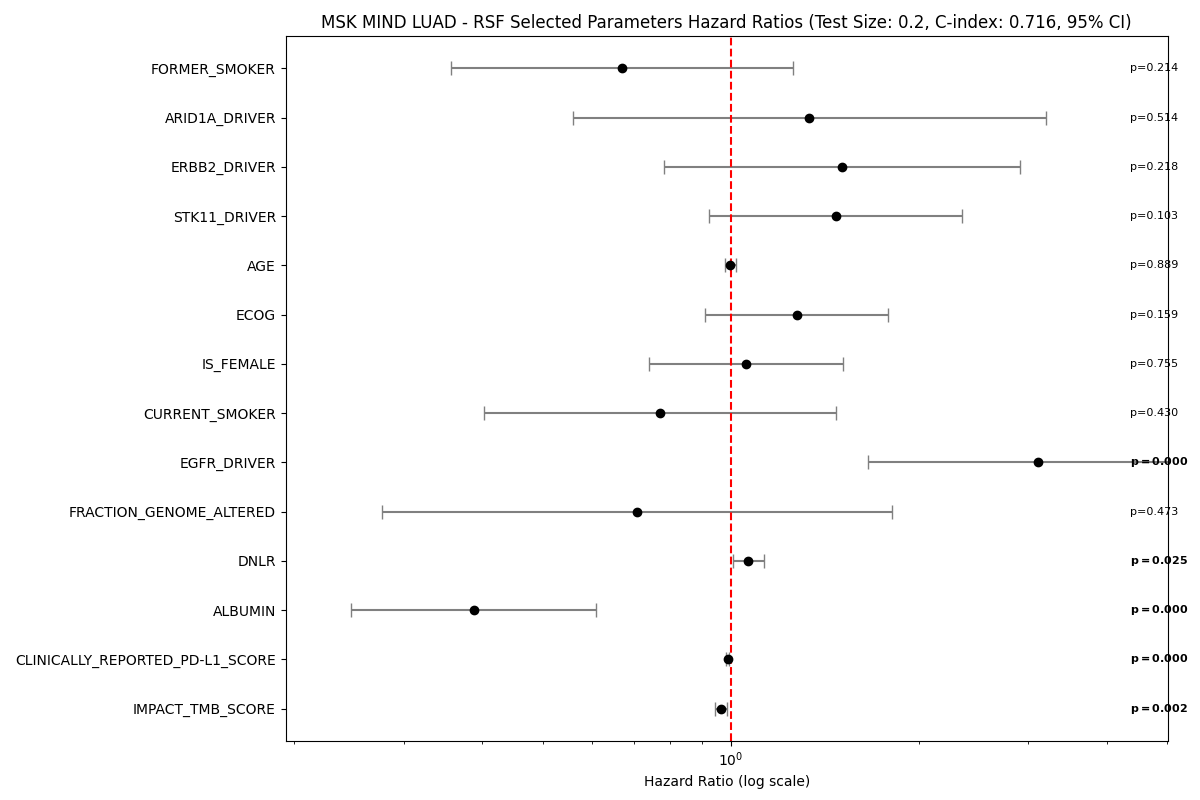
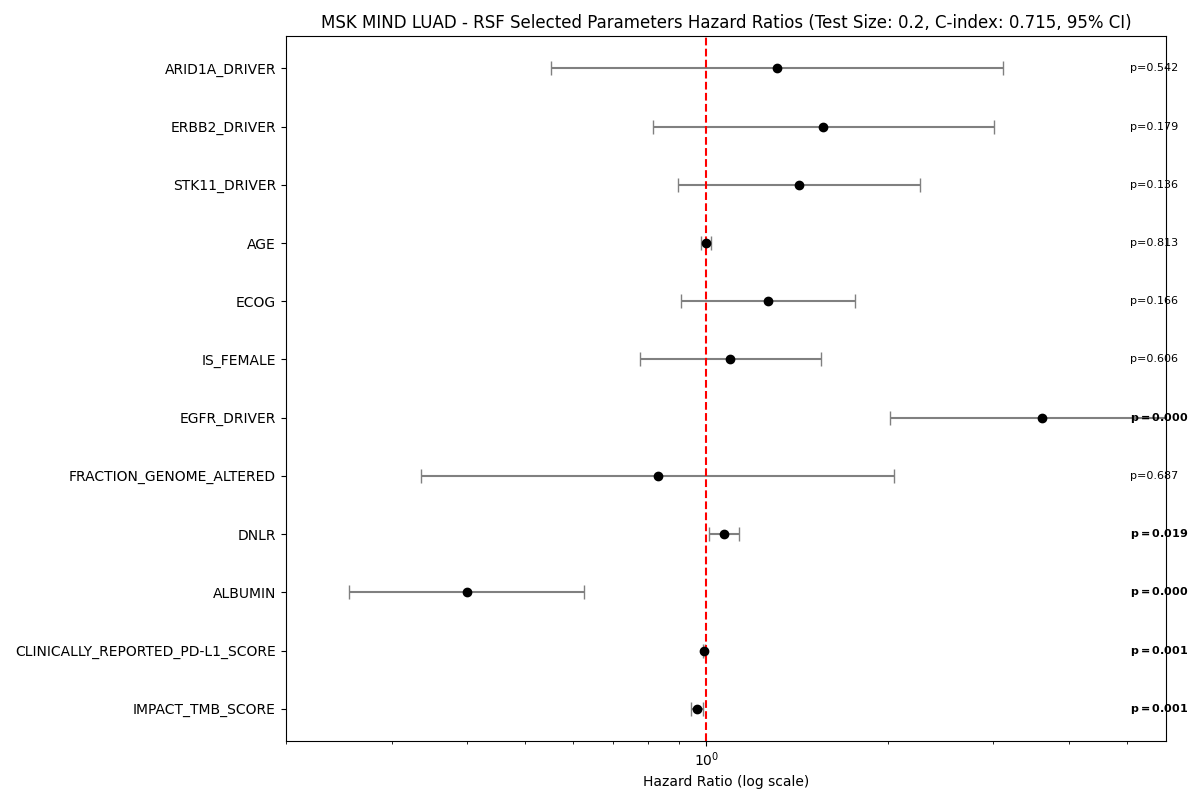
cph with top 7 from rsf

diff --git a/coxph-0.2split.py b/coxph-0.2split.py
@@ -102,7 +102,7 @@ def run_model(df, name):
 # Without treatment data
 surv = pd.read_csv('survival.csv')
 
-parameters = ["IMPACT_TMB_SCORE", "CLINICALLY_REPORTED_PD-L1_SCORE", "ALBUMIN", "DNLR", "FRACTION_GENOME_ALTERED", "EGFR_DRIVER", "CURRENT_SMOKER", "IS_FEMALE", "ECOG","AGE","STK11_DRIVER", "ERBB2_DRIVER", "ARID1A_DRIVER", "FORMER_SMOKER"]
+parameters = ["IMPACT_TMB_SCORE", "CLINICALLY_REPORTED_PD-L1_SCORE", "ALBUMIN", "DNLR", "FRACTION_GENOME_ALTERED", "EGFR_DRIVER","STK11_DRIVER"]
 
 # some unknown, some NA, some cigars
 surv.drop(columns= ["PACK-YEAR_HISTORY"], inplace=True)
